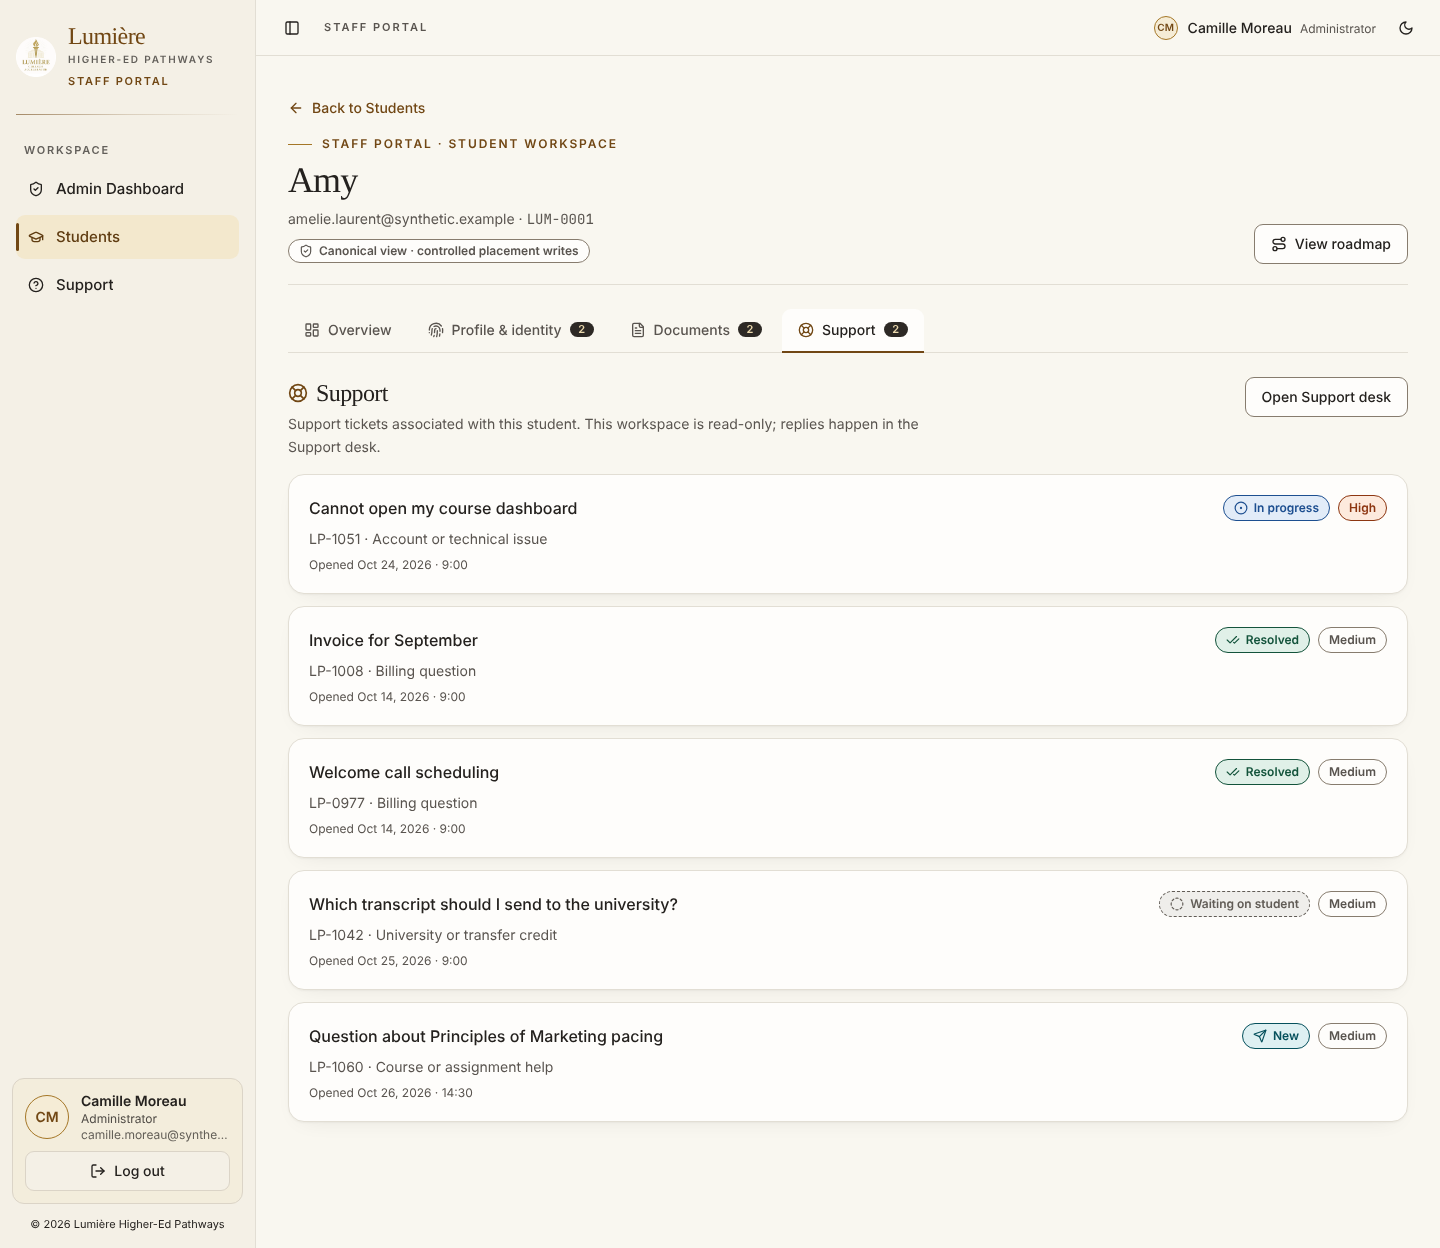
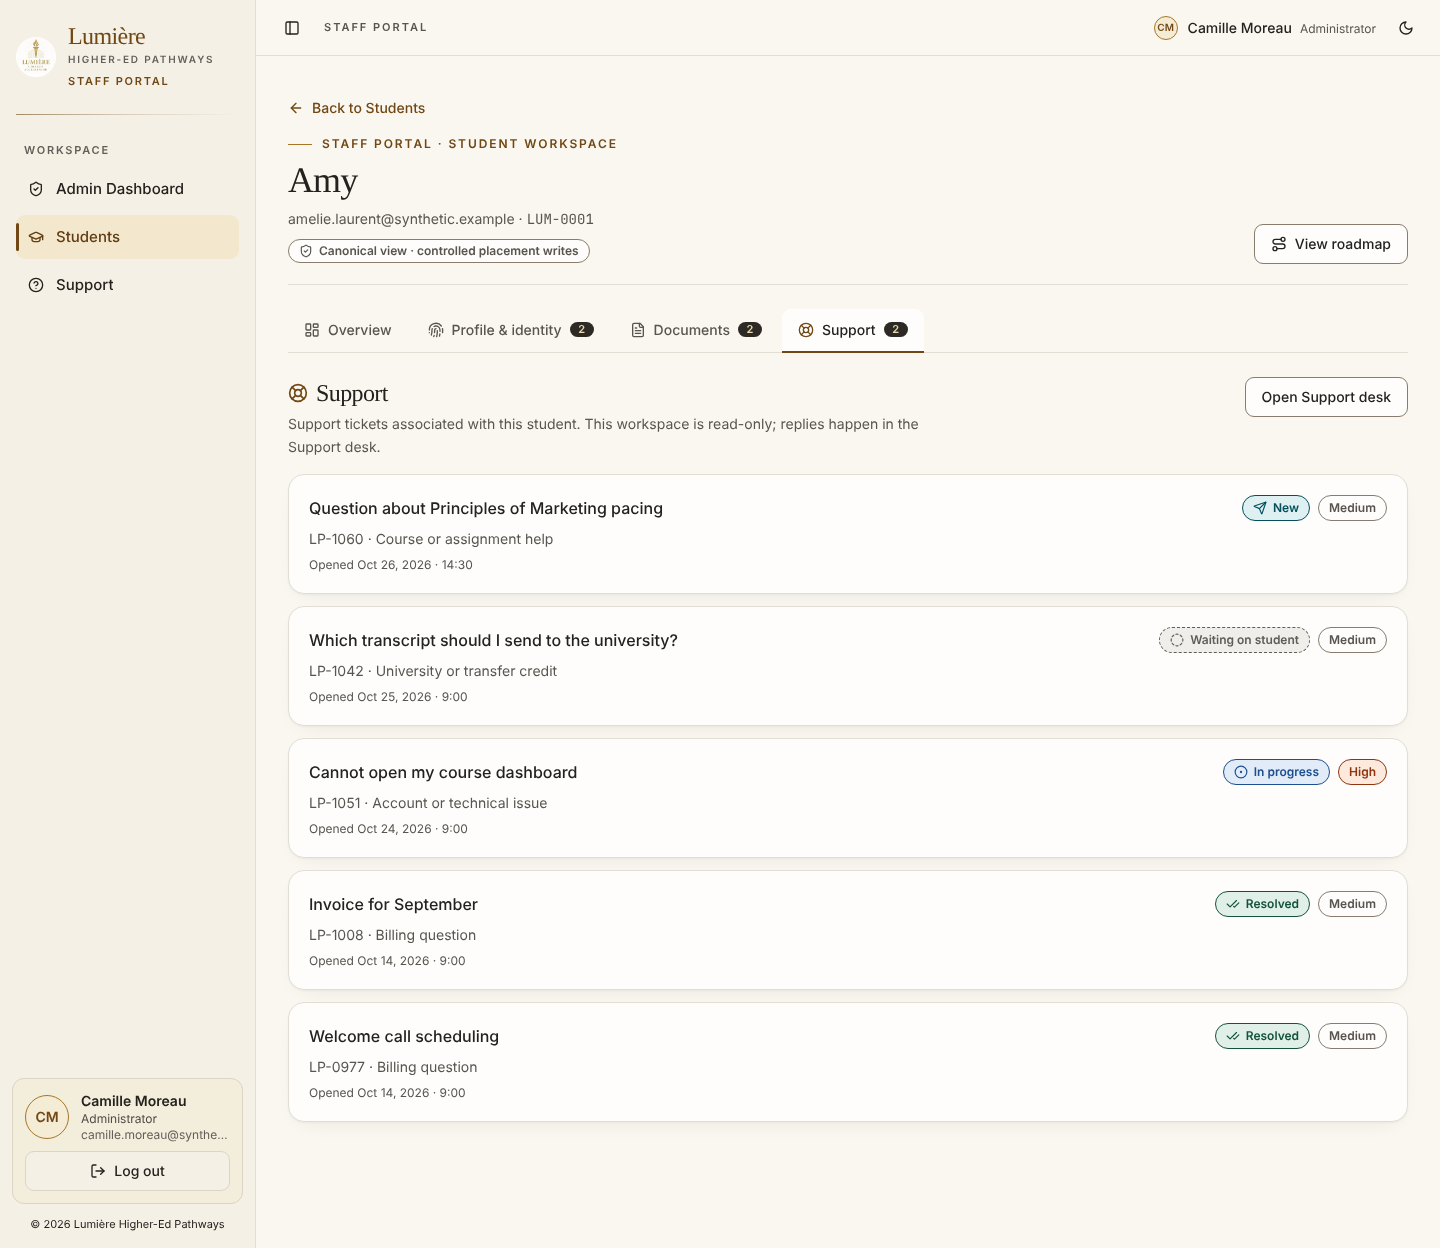
S10: staff desk triage order lives in the product (orderStaffQueue: open overdue → longest waiting → resolved), not the screenshot stub; stub returns server order; canonical screens re-rendered (47, axe 0, overflow 0, interactions 35/35)
Claude-Session: https://claude.ai/code/session_01WPa8UDg3zyHwfCC92DJ9C5

diff --git a/tests/s10-staff-queue-order.test.ts b/tests/s10-staff-queue-order.test.ts
@@ -1,0 +1,25 @@
+import { describe, expect, it } from "vitest";
+import { orderStaffQueue } from "../client/src/components/support/support-presentation";
+
+const t = (id: string, status: string, awaiting_since: string, is_overdue = false) => ({ id, status, awaiting_since, is_overdue });
+
+describe("S10: staff desk triage order (server returns newest first)", () => {
+  it("puts open overdue work first, then longest waiting, then resolved/closed in server order", () => {
+    const serverOrder = [
+      t("new-open", "open", "2026-10-25T09:00:00Z"),
+      t("resolved-recent", "resolved", "2026-10-24T09:00:00Z"),
+      t("old-waiting", "waiting_on_student", "2026-10-10T09:00:00Z"),
+      t("overdue", "in_progress", "2026-10-20T09:00:00Z", true),
+      t("closed-old", "closed", "2026-09-01T09:00:00Z"),
+    ];
+    expect(orderStaffQueue(serverOrder).map((x) => x.id)).toEqual(["overdue", "old-waiting", "new-open", "resolved-recent", "closed-old"]);
+  });
+
+  it("does not mutate the input and handles an empty queue", () => {
+    const input = [t("a", "open", "2026-10-02T00:00:00Z"), t("b", "open", "2026-10-01T00:00:00Z")];
+    const copy = input.map((x) => x.id);
+    expect(orderStaffQueue(input).map((x) => x.id)).toEqual(["b", "a"]);
+    expect(input.map((x) => x.id)).toEqual(copy);
+    expect(orderStaffQueue([])).toEqual([]);
+  });
+});

diff --git a/scripts/s10/render-consolidated-screens.ts b/scripts/s10/render-consolidated-screens.ts
@@ -183,8 +183,8 @@ async function newPage(browser: any, o: Opts) {
       // Staff queue honours the same filters as the server (view, awaiting, overdue, assignedTo, search).
       let list = mode === "student" ? summaries : queryStaffQueue(summaries, url.searchParams, NOW, STAFF_ME.id);
       // The workspace asks for one student's tickets (studentId); the canonical student's reporter id is the ticket owner.
-      // Server-side queue order (stub): overdue first, then longest-waiting first.
-      if (mode !== "student") list = [...list].sort((a, b) => Number(!!b.is_overdue) - Number(!!a.is_overdue) || a.awaiting_since.localeCompare(b.awaiting_since));
+      // Like the server: newest first. The desk applies its own triage order (orderStaffQueue).
+      list = [...list].sort((a, b) => b.created_at.localeCompare(a.created_at));
       if (url.searchParams.get("studentId")) list = list.filter((t) => t.reporter_id === "student-user-1");
       return json(200, { tickets: list, pagination: { total: list.length, limit: 50, offset: 0 } });
     }

diff --git a/client/src/components/support/support-presentation.ts b/client/src/components/support/support-presentation.ts
@@ -382,3 +382,16 @@ export const STAFF_QUEUES: readonly { readonly key: StaffQueueKey; readonly labe
   { key: "resolved", label: "Resolved", help: "Finished" },
   { key: "all", label: "All", help: "Everything" },
 ];
+
+/**
+ * Staff triage order: open work first, overdue before on-time, then whoever has
+ * waited longest. Resolved/closed tickets keep the server order (newest first)
+ * after the open ones. The server returns newest-first; this is the desk's order.
+ */
+export function orderStaffQueue<T extends { status: string; awaiting_since: string; is_overdue?: boolean }>(tickets: readonly T[]): T[] {
+  const done = (t: T) => t.status === "resolved" || t.status === "closed";
+  const open = tickets.filter((t) => !done(t));
+  const closed = tickets.filter(done);
+  open.sort((a, b) => Number(!!b.is_overdue) - Number(!!a.is_overdue) || a.awaiting_since.localeCompare(b.awaiting_since));
+  return [...open, ...closed];
+}

diff --git a/client/src/components/support/staff-support-desk.tsx b/client/src/components/support/staff-support-desk.tsx
@@ -31,6 +31,7 @@ import {
 import {
   STAFF_QUEUES,
   assigneeSelectValue,
+  orderStaffQueue,
   overdueByLabel,
   staffQueueFilters as queueFilters,
   type StaffQueueKey as QueueKey,
@@ -559,7 +560,7 @@ export function StaffSupportDesk() {
   const stats = useTicketStats(true);
   const directory = useSupportStaffDirectory(isManager);
 
-  const tickets = ((list.data as { tickets?: SupportTicketSummary[] } | undefined)?.tickets ?? []) as SupportTicketSummary[];
+  const tickets = orderStaffQueue(((list.data as { tickets?: SupportTicketSummary[] } | undefined)?.tickets ?? []) as SupportTicketSummary[]);
   const total = (list.data as { pagination?: { total: number } } | undefined)?.pagination?.total ?? tickets.length;
   const staff = ((directory.data as { staff?: SupportPerson[] } | undefined)?.staff ?? []) as SupportPerson[];
 
